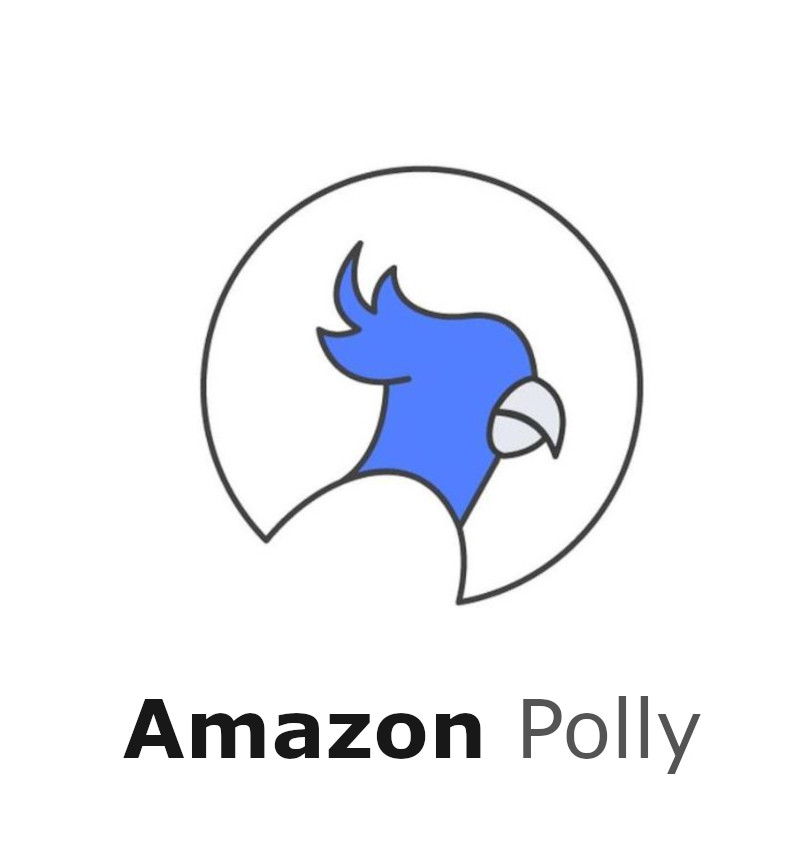
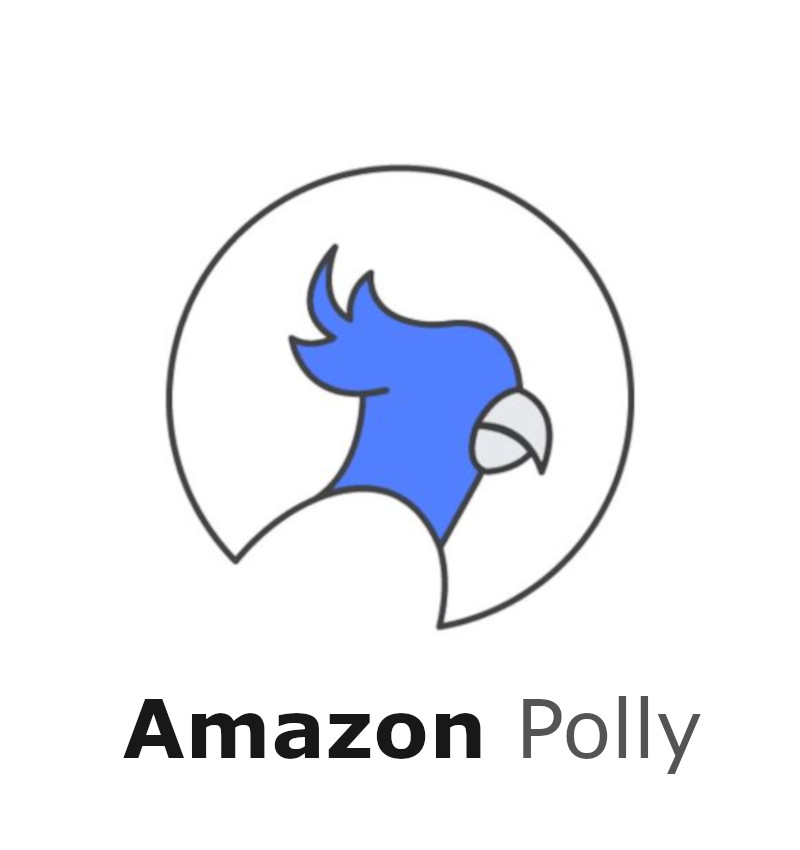
image update

diff --git a/website/index.html b/website/index.html
@@ -276,7 +276,7 @@
 					</a>
 				</div>
 				<div class="col-md-3 text-center col-padding animate-box">
-					<a href="https://github.com/CodedbyChino/Text-to-Speech-Converter-.git" class="work" style="background-image: url(images/polly.png);">
+					<a href="https://github.com/CodedbyChino/Text-to-Speech-Converter-.git" class="work" style="background-image: url(images/polly.jpg);">
 						<div class="desc">
 							<h3>Project Name</h3>
 							<span>AWS Polly Text-to-Speech</span>
